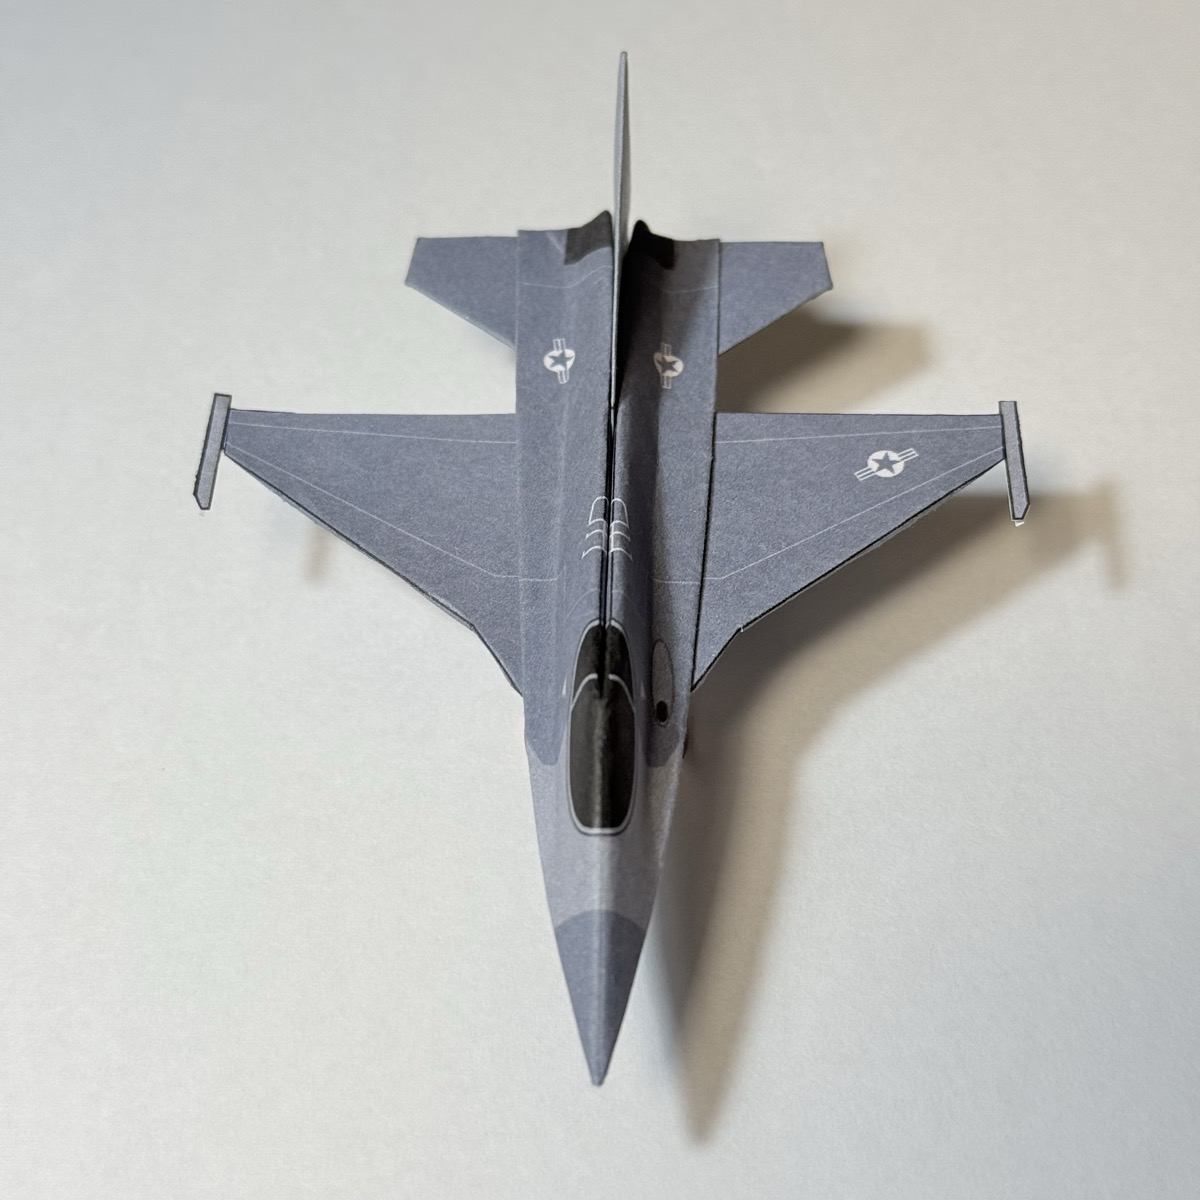
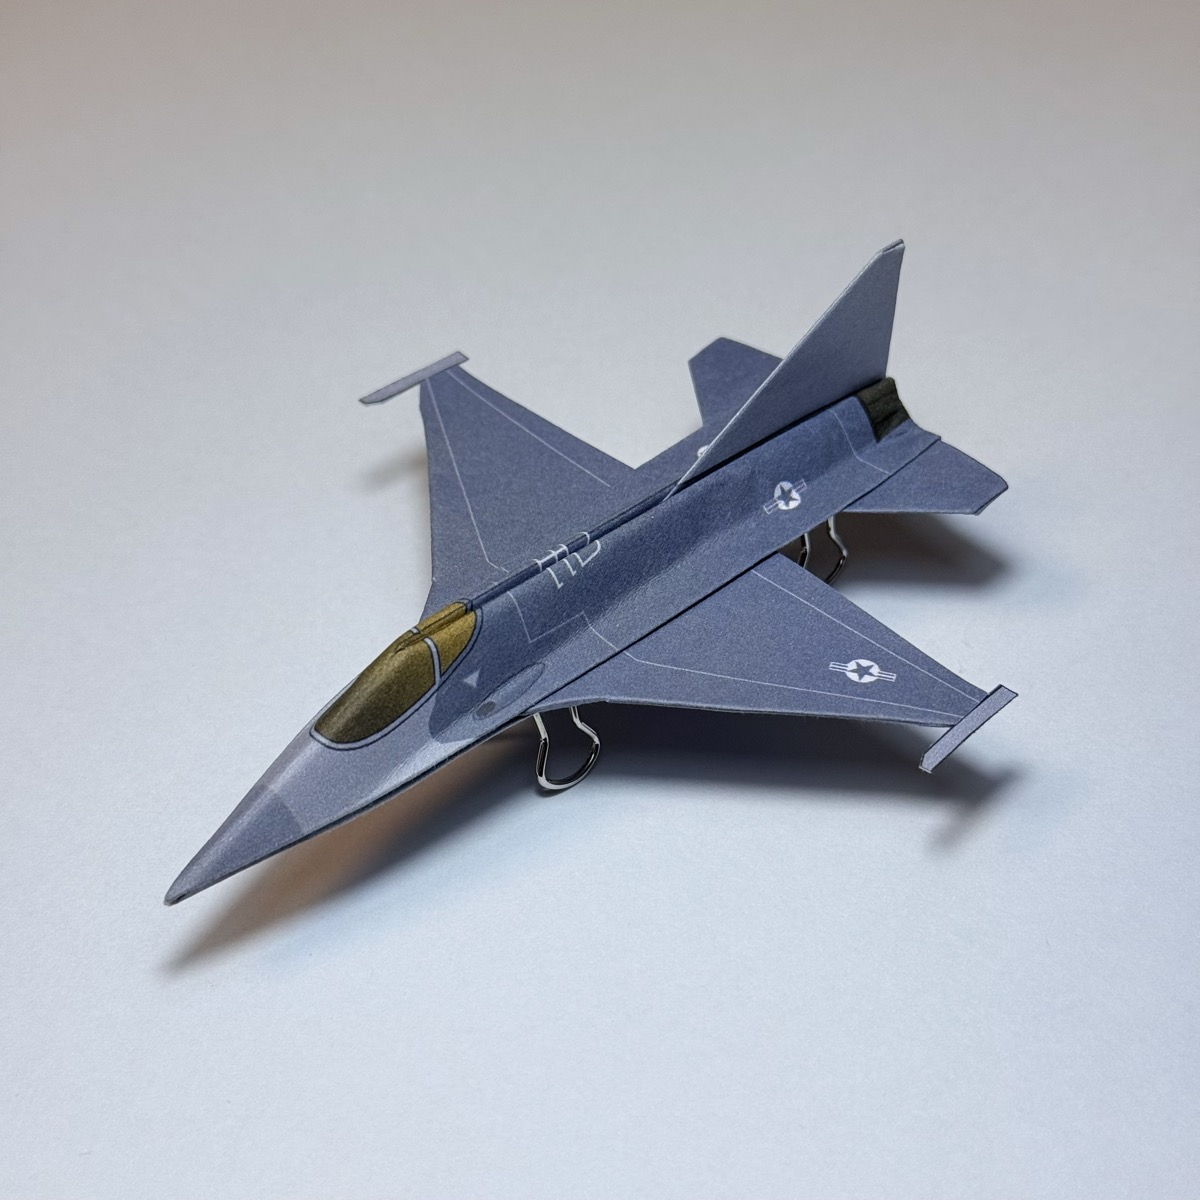
Change images

diff --git a/tools/process_images.py b/tools/process_images.py
@@ -14,15 +14,15 @@ files = sorted(glob.glob(os.path.join(SRC_DIR, '*.HEIC')))
 
 print(f"Found {len(files)} files.")
 
-# Define series mapping (3 images per series for 5 series)
-# We have exactly 15 files, so 15 / 5 = 3 images per series.
-images_per_series = 3
+# Define skin mapping (3 images per skin for 5 skins)
+# We have exactly 15 files, so 15 / 5 = 3 images per skin.
+images_per_skin = 3
 
 for i, input_path in enumerate(files):
-    series_index = (i // images_per_series) + 1
-    image_index = (i % images_per_series) + 1
+    skin_index = (i // images_per_skin) + 1
+    image_index = (i % images_per_skin) + 1
     
-    output_filename = f"series{series_index}_{image_index}.jpg"
+    output_filename = f"skin{skin_index}_{image_index}.jpg"
     output_path = os.path.join(DEST_DIR, output_filename)
     
     print(f"Processing {input_path} -> {output_path}...")
